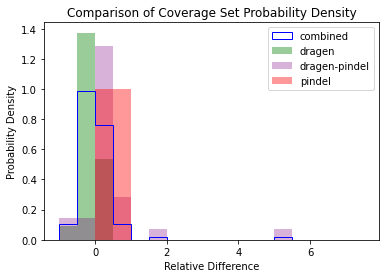
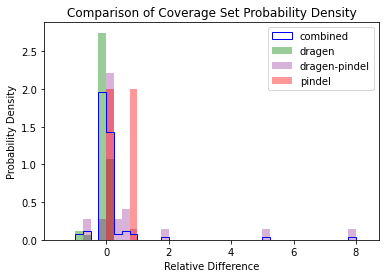
Increased resolution of tier13, changed programs

diff --git a/py/generate_four_plots.py b/py/generate_four_plots.py
@@ -12,7 +12,10 @@ import matplotlib.pyplot as plt
 
 SEP = '\t'
 
-BIN_WIDTH = 0.5
+BIN_WIDTH = 0.25
+DRAGEN_WIDTH = 0.1
+PINDEL_WIDTH = DRAGEN_WIDTH
+DRAGEN_PINDEL_WIDTH = BIN_WIDTH
 ALPHA = 0.3
 HISTTYPE = 'barstacked'
 STACKED = True
@@ -108,13 +111,37 @@ if args.disable_table:
 
 # generate bins
 combined_list = dragen + pindel + dragen_pindel
-min_bin = int(min(combined_list)) - 1 # takes floor min
-max_bin = int(max(combined_list)) + 1 # takes ceiling max
+min_bin = int(min(combined_list)) - 1.5 # takes floor min
+max_bin = int(max(combined_list)) + 1.5 # takes ceiling max
 bins = np.arange(min_bin, max_bin, BIN_WIDTH)
 
 info(f'Generating {len(bins)} bins - Bin width: {BIN_WIDTH} - ' \
      f'Minimum bin: {min_bin} - Maximum bin: {max_bin}')
-  
+
+# generate dragen bins
+min_dragen = int(min(dragen)) - 1.5 # takes floor min
+max_dragen = int(max(dragen)) + 1.5 # takes ceiling max
+dragen_bins = np.arange(min_dragen, max_dragen, DRAGEN_WIDTH)
+
+info(f'Generating {len(dragen_bins)} dragen bins - Bin width: {DRAGEN_WIDTH} - ' \
+     f'Minimum bin: {min_dragen} - Maximum bin: {max_dragen}')
+
+# generate pindel bins
+min_pindel = int(min(pindel)) - 1.5 # takes floor min
+max_pindel = int(max(pindel)) + 1.5 # takes ceiling max
+pindel_bins = np.arange(min_pindel, max_pindel, PINDEL_WIDTH)
+
+info(f'Generating {len(pindel_bins)} pindel bins - Bin width: {PINDEL_WIDTH} - ' \
+     f'Minimum bin: {min_pindel} - Maximum bin: {max_pindel}')
+
+# generate dragen-pindel bins
+min_dragen_pindel = int(min(dragen_pindel)) - 1.5 # takes floor min
+max_dragen_pindel = int(max(dragen_pindel)) + 1.5 # takes ceiling max
+dragen_pindel_bins = np.arange(min_dragen_pindel, max_dragen_pindel, DRAGEN_PINDEL_WIDTH)
+
+info(f'Generating {len(dragen_pindel_bins)} dragen-pindel bins - Bin width: {DRAGEN_PINDEL_WIDTH} - ' \
+     f'Minimum bin: {min_dragen_pindel} - Maximum bin: {max_dragen_pindel}')
+
 # sets up subplots
 figure, ((plot1, plot2), (plot3, plot4)) = plt.subplots(nrows=2, ncols=2)
 fontdict = {'fontsize':10}
@@ -123,6 +150,7 @@ fontdict = {'fontsize':10}
 
 # plot 1 - dragen coverage
 plot1.hist(dragen,
+           bins=dragen_bins,
            histtype=HISTTYPE,
            stacked=STACKED,
            density=DENSITY,
@@ -134,6 +162,7 @@ plot1.set_ylabel(YLABEL, fontdict=fontdict)
 
 # plot 2 - pindel coverage
 plot2.hist(pindel,
+           bins=pindel_bins,
            histtype=HISTTYPE,
            stacked=STACKED,
            density=DENSITY,
@@ -145,6 +174,7 @@ plot2.set_ylabel(YLABEL, fontdict=fontdict)
 
 # plot 3 - dragen-pindel coverage
 plot3.hist(dragen_pindel,
+           bins=dragen_pindel_bins,
            histtype=HISTTYPE,
            stacked=STACKED,
            density=DENSITY,

diff --git a/py/generate_plot.py b/py/generate_plot.py
@@ -12,7 +12,7 @@ import matplotlib.pyplot as plt
 
 SEP = '\t'
 
-BIN_WIDTH = 0.5
+BIN_WIDTH = 0.25
 ALPHA = 0.3
 HISTTYPE = 'barstacked'
 STACKED = True
@@ -105,8 +105,8 @@ if args.disable_table:
 
 # generate bins
 combined_list = dragen + pindel + dragen_pindel
-min_bin = int(min(combined_list)) - 1 # takes floor min
-max_bin = int(max(combined_list)) + 1 # takes ceiling max
+min_bin = int(min(combined_list)) - 1.5 # takes floor min
+max_bin = int(max(combined_list)) + 1.5 # takes ceiling max
 bins = np.arange(min_bin, max_bin, BIN_WIDTH)
 
 info(f'Generating {len(bins)} bins - Bin width: {BIN_WIDTH} - ' \
